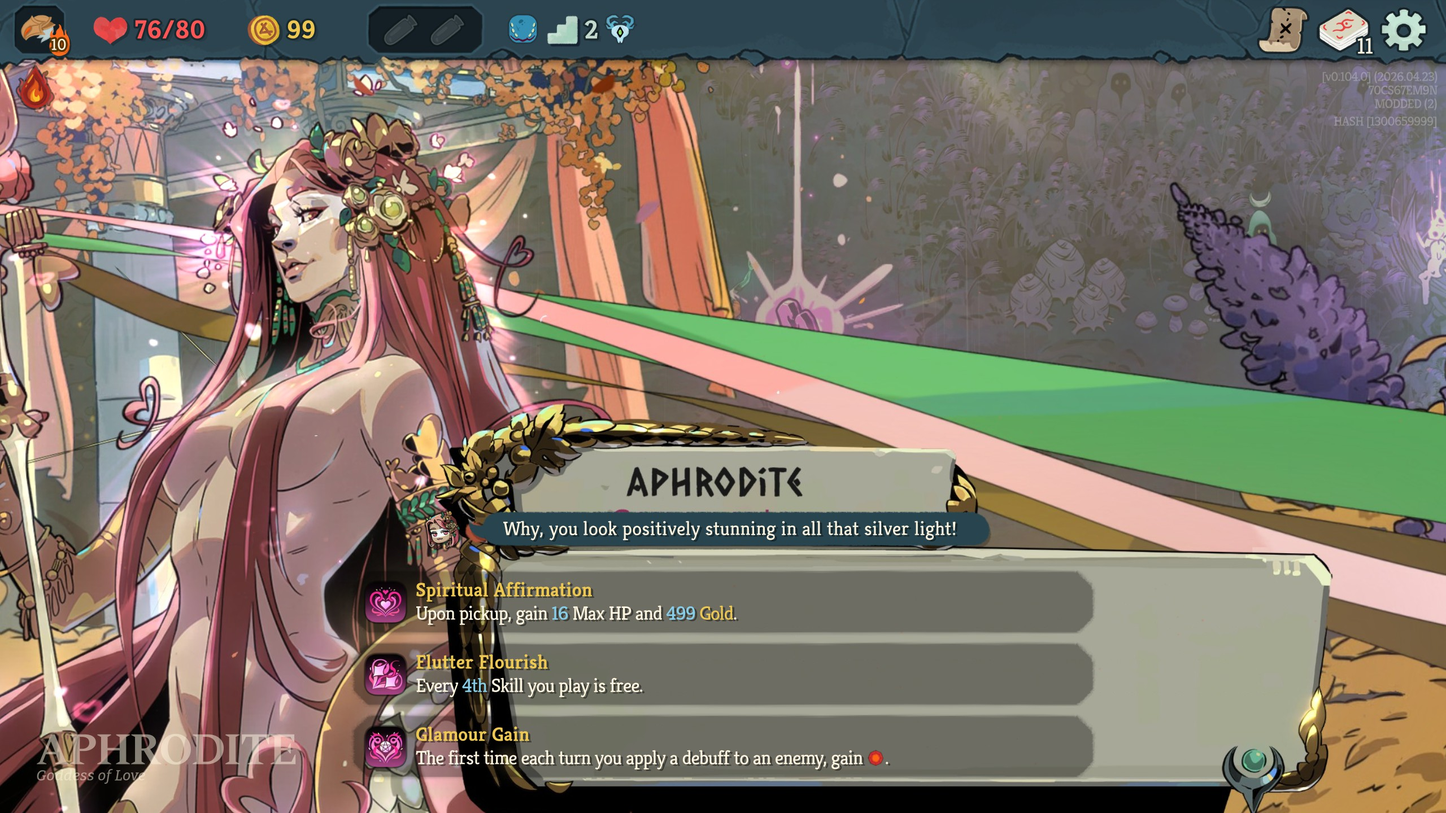
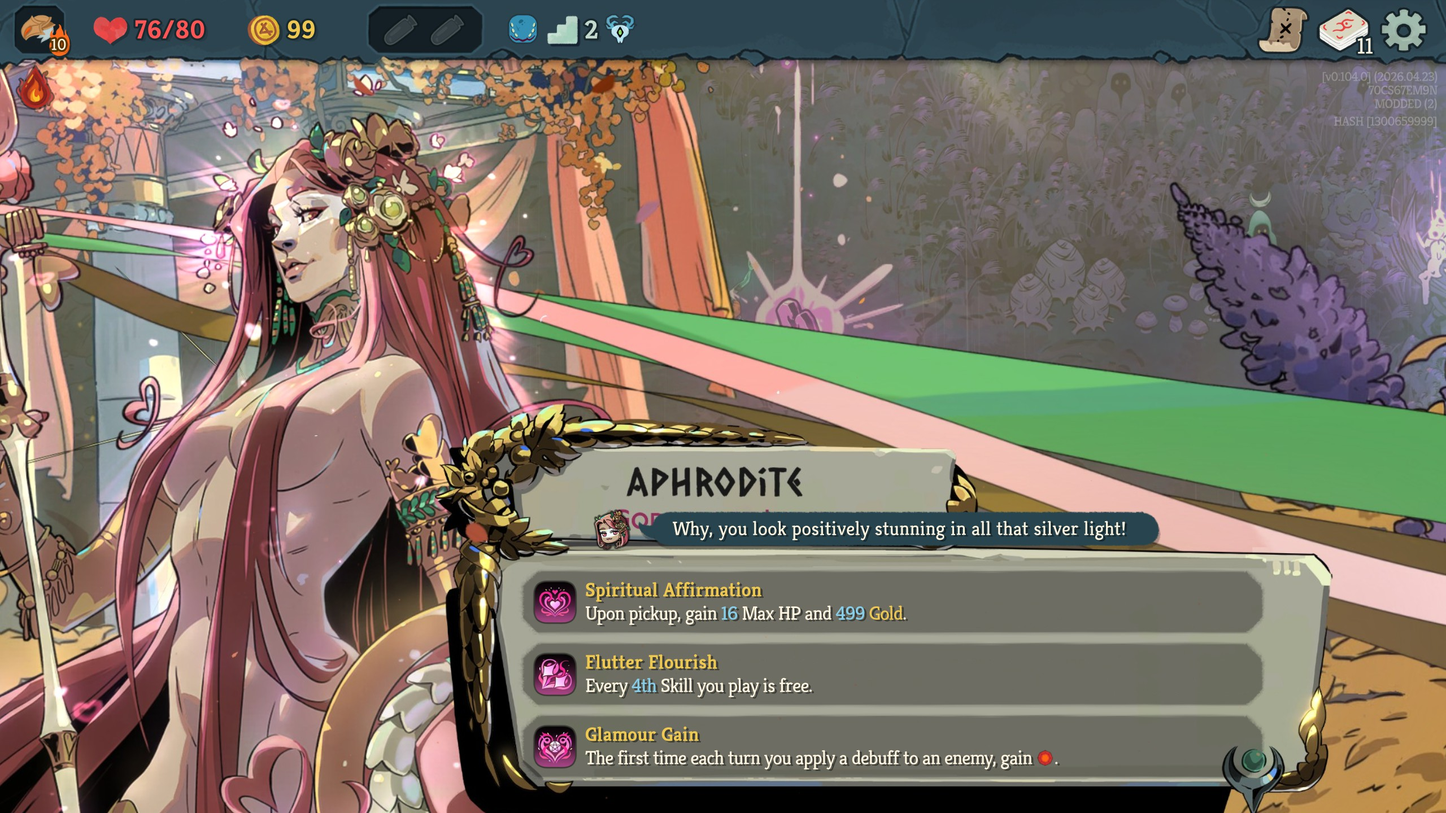
Fix Aphrodite choices positioning.

Changed region(s): [[0.0312, 0.625, 0.875, 0.9688], [0.9375, 0.0, 1.0, 0.0625]]

diff --git a/AphroditeAncientCode/Patches/NAncientEventLayout_SetDialogueLineAndAnimate_Patch.cs b/AphroditeAncientCode/Patches/NAncientEventLayout_SetDialogueLineAndAnimate_Patch.cs
@@ -1,0 +1,61 @@
+using MegaCrit.Sts2.Core.Models;
+
+namespace AphroditeAncient.AphroditeAncientCode.Patches;
+
+using Godot;
+using HarmonyLib;
+using MegaCrit.Sts2.Core.Nodes.Events;
+using System.Runtime.CompilerServices;
+
+[HarmonyPatch(typeof(NAncientEventLayout), "SetDialogueLineAndAnimate")]
+public static class AncientEventLayout_XOffsetPatch
+{
+    private const float XOffset = 150f;
+
+    private static readonly ConditionalWeakTable<NAncientEventLayout, Box> State = new();
+
+    private sealed class Box
+    {
+        public float BaseContentX;
+        public float BaseContainerWidth;
+
+        public Box(float baseContentX, float baseContainerWidth)
+        {
+            BaseContentX = baseContentX;
+            BaseContainerWidth = baseContainerWidth;
+        }
+    }
+
+    static void Prefix(NAncientEventLayout __instance)
+    {
+        var t = Traverse.Create(__instance);
+
+        var ancientEvent = t.Field("_ancientEvent").GetValue<AncientEventModel>();
+
+        if (ancientEvent.Id != ModelDb.GetId<Ancients.AphroditeAncient>())
+            return;
+        
+        var content = t.Field("_content").GetValue<VBoxContainer>();
+        var contentContainer = t.Field("_contentContainer").GetValue<Control>();
+
+        if (content == null || contentContainer == null)
+            return;
+
+        if (!State.TryGetValue(__instance, out var state))
+        {
+            state = new Box(content.Position.X, contentContainer.Size.X);
+            State.Add(__instance, state);
+        }
+
+        content.Position = new Vector2(
+            state.BaseContentX + XOffset,
+            content.Position.Y
+        );
+
+        // Prevent right-side clipping.
+        contentContainer.Size = new Vector2(
+            state.BaseContainerWidth + Mathf.Abs(XOffset),
+            contentContainer.Size.Y
+        );
+    }
+}
